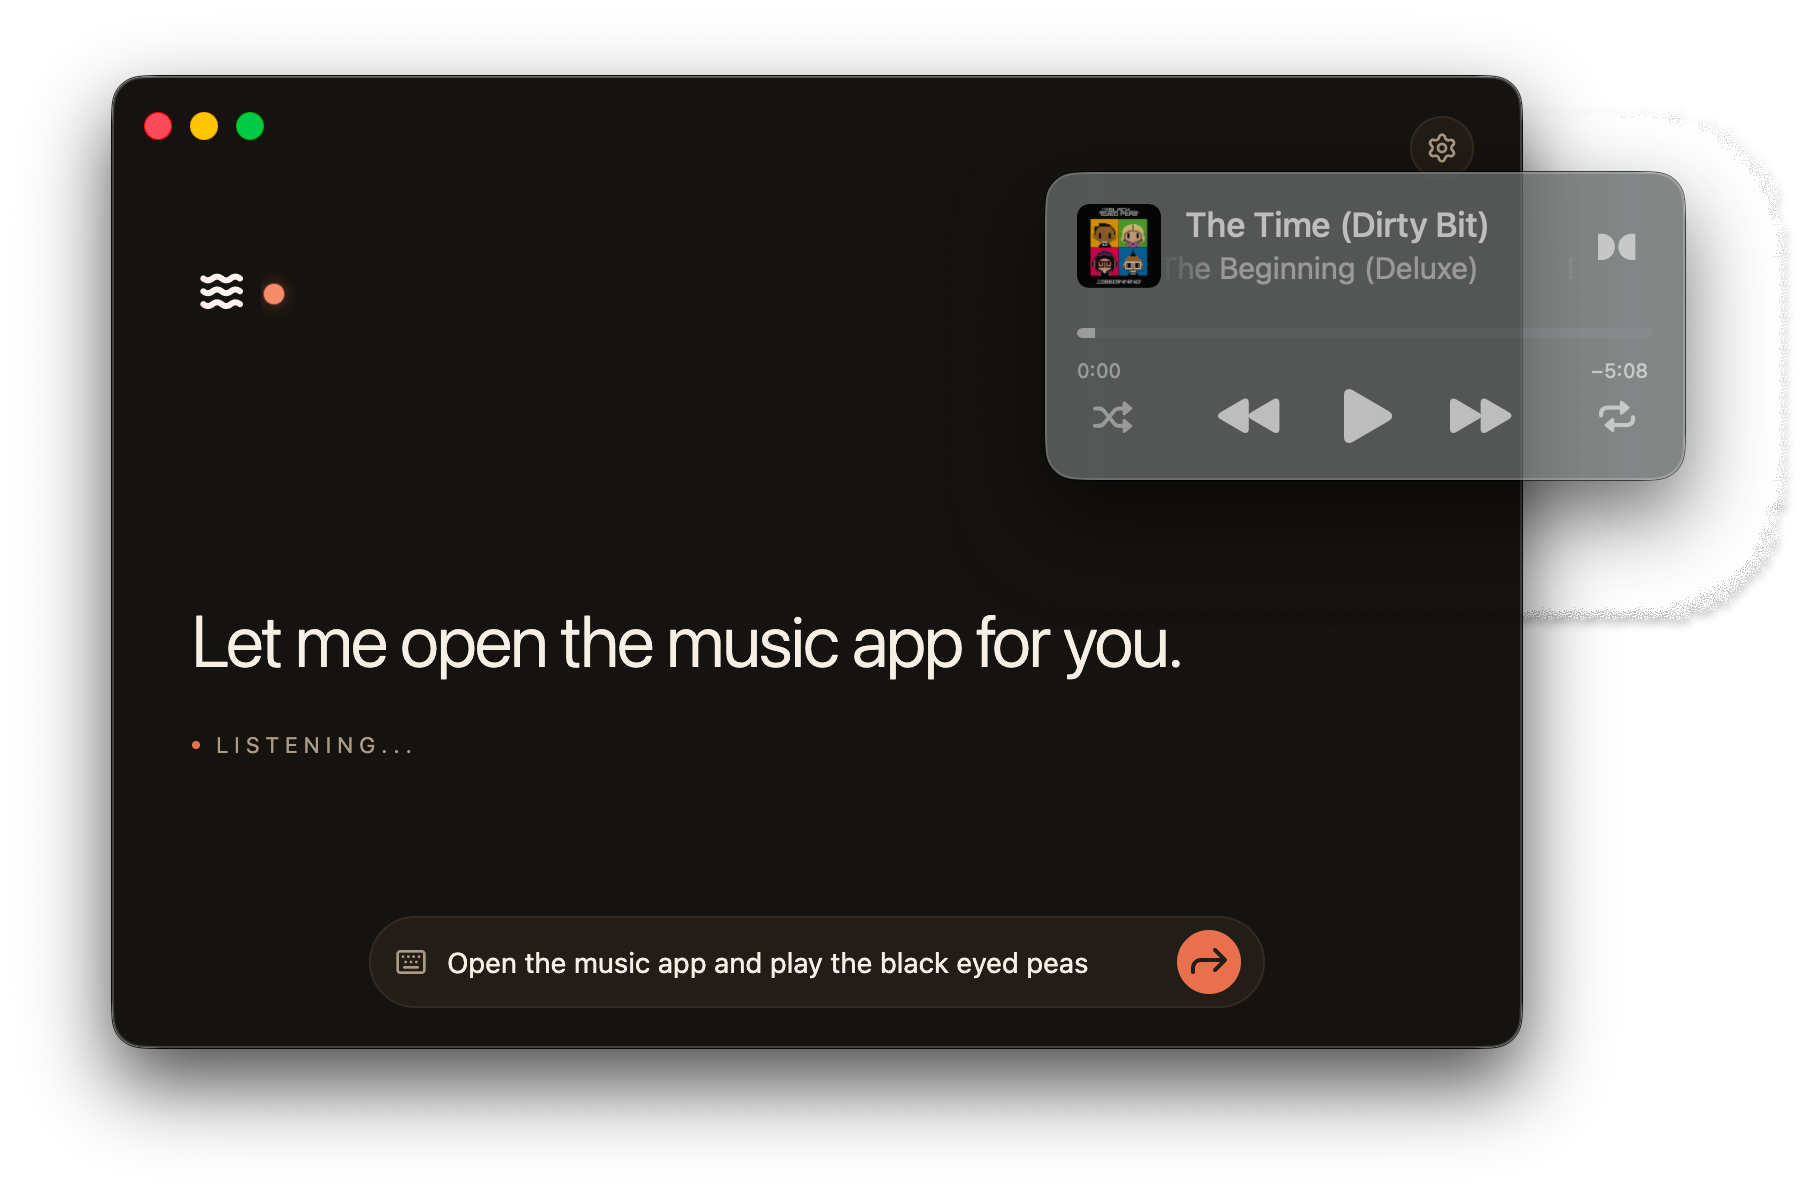
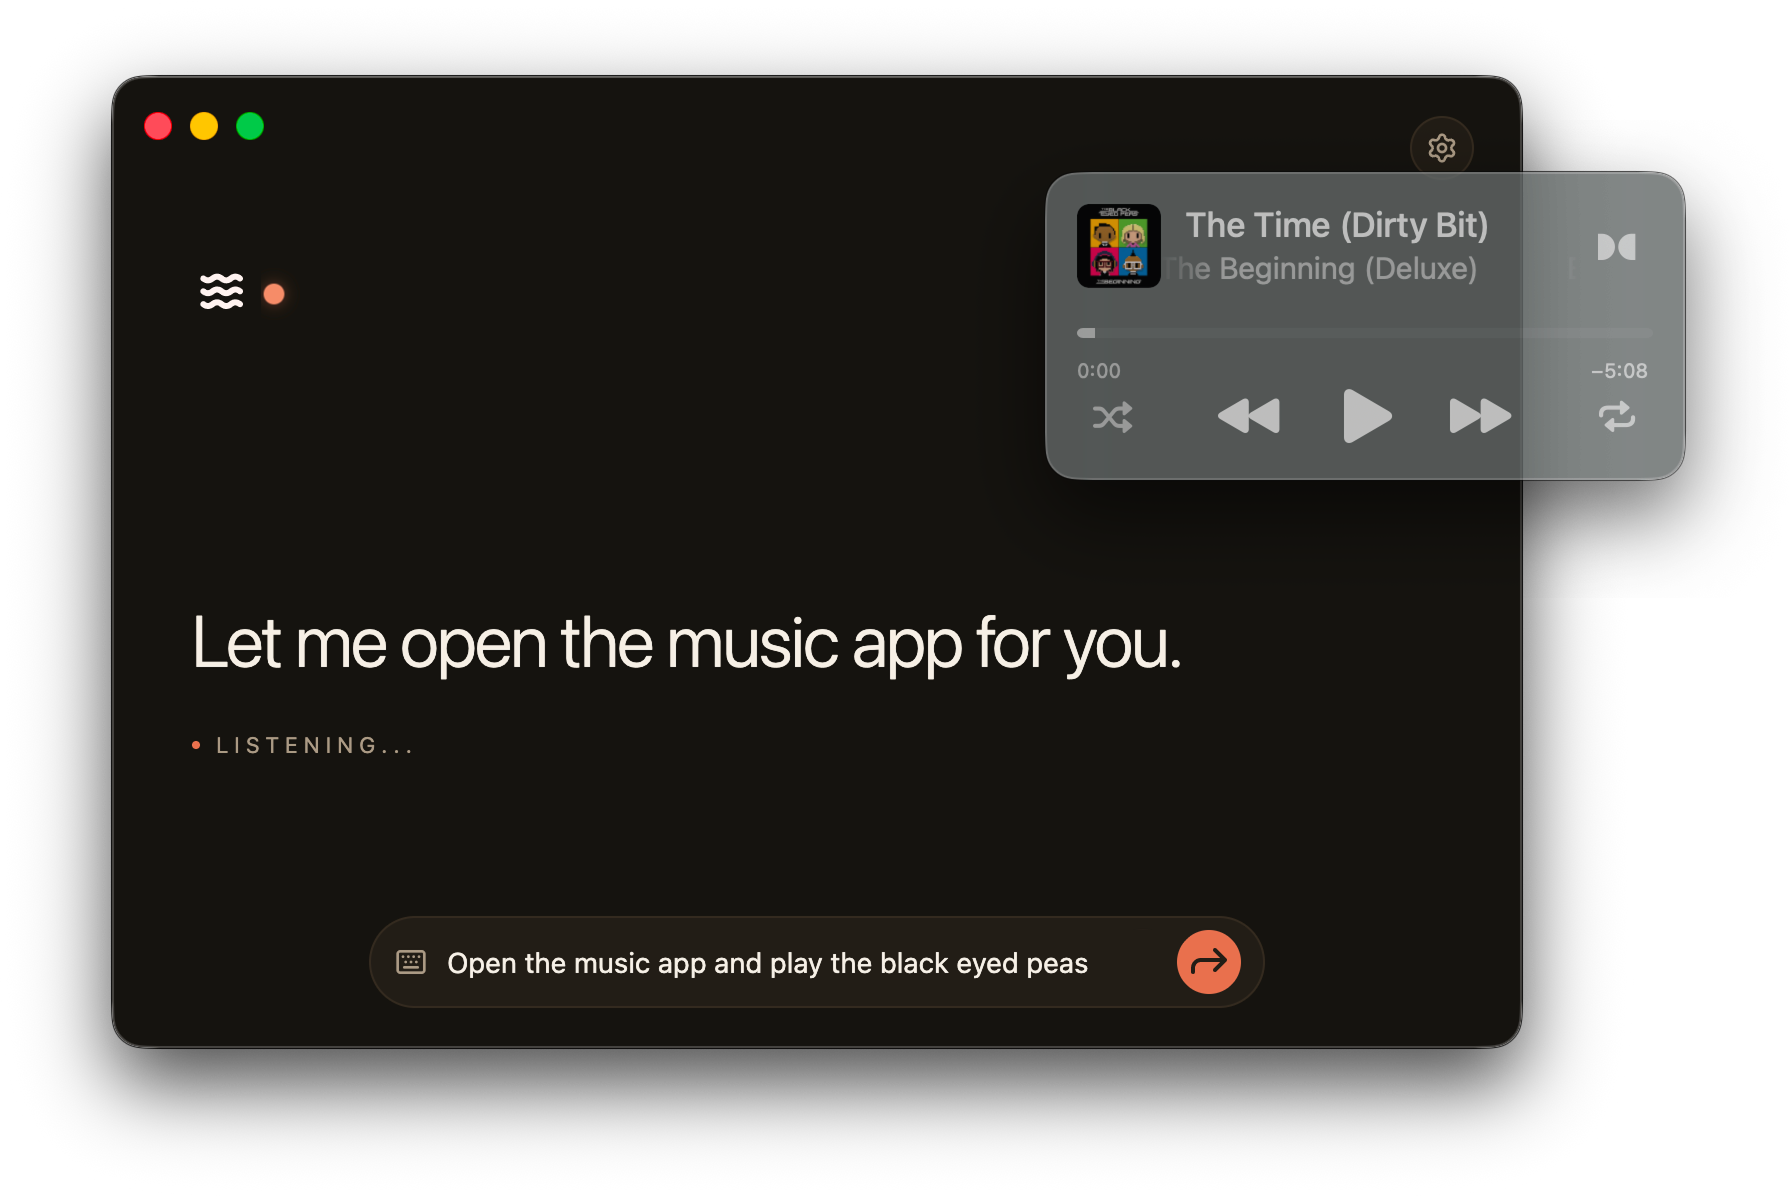
improved notch design

diff --git a/src/renderer/src/components/compact-bar.tsx b/src/renderer/src/components/compact-bar.tsx
@@ -1,16 +1,23 @@
+import { useEffect, useRef, useState } from "react";
 import { Maximize2, Mic, MicOff, Settings } from "lucide-react";
 import { StatusDot } from "@/components/status-bar";
-import { TextComposer } from "@/components/themes/text-composer";
 import { Button } from "@/components/ui/button";
 import { STATUS_LABELS, type DexStatus } from "@/lib/dex/state";
+import { cn } from "@/lib/utils";
 
 // The notch bar's presentation. It fills its transparent host window (the notch
 // window — see createNotchWindow), drawing a flat top edge flush to the screen
-// and rounded bottom so it reads as hanging from the top "notch". Purely
-// presentational: state + callbacks are wired by NotchApp from the session relay.
+// and rounded bottom so it reads as hanging from the top "notch".
+//
+// At rest it shows only the status + a standby (mic) toggle. Hovering it (or
+// focusing the type field, or the summon hotkey) "expands" it: the host window
+// grows downward (setNotchExpanded) to reveal the expand + settings buttons and
+// a minimalist type field that slides up from the bottom. State + callbacks are
+// wired by NotchApp from the session relay.
 export function CompactBar({
   status,
   caption,
+  agentName,
   isMuted,
   onSubmitText,
   onToggleMute,
@@ -19,65 +26,187 @@ export function CompactBar({
 }: {
   status: DexStatus;
   caption: string;
+  agentName: string;
   isMuted: boolean;
   onSubmitText: (text: string) => void;
   onToggleMute: () => void;
   onExpand: () => void;
   onOpenSettings: () => void;
 }) {
+  const [hovered, setHovered] = useState(false);
+  const [typing, setTyping] = useState(false);
+  const [value, setValue] = useState("");
+  const inputRef = useRef<HTMLInputElement>(null);
+
+  // Stay expanded while hovered OR while the type field has focus. Expand
+  // immediately; collapse half a second after both drop so a quick blur or
+  // pointer drift doesn't snap the bar shut.
+  const rawExpanded = hovered || typing;
+  const [expanded, setExpanded] = useState(false);
+
+  useEffect(() => {
+    if (rawExpanded) {
+      setExpanded(true);
+      return;
+    }
+    const timer = setTimeout(() => setExpanded(false), 500);
+    return () => clearTimeout(timer);
+  }, [rawExpanded]);
+
+  // Drive the host window's height to match the expanded state.
+  useEffect(() => {
+    window.opendex.setNotchExpanded(expanded);
+  }, [expanded]);
+
+  // The summon hotkey (⌥Space) focuses this window — reveal + focus the field so
+  // the user can type immediately, Spotlight-style.
+  useEffect(() => {
+    const reveal = () => {
+      setTyping(true);
+      inputRef.current?.focus();
+    };
+    window.addEventListener("opendex:summon", reveal);
+    return () => window.removeEventListener("opendex:summon", reveal);
+  }, []);
+
+  // Collapse when the notch loses focus (e.g. it's hidden on expand-to-full or a
+  // summon toggle) so its expanded state never goes stale against the window
+  // height, which main resets to collapsed whenever it re-shows the notch.
+  useEffect(() => {
+    const collapse = () => {
+      setHovered(false);
+      setTyping(false);
+    };
+    window.addEventListener("blur", collapse);
+    return () => window.removeEventListener("blur", collapse);
+  }, []);
+
+  const submit = () => {
+    const text = value.trim();
+    if (!text) return;
+    onSubmitText(text);
+    setValue(""); // keep focus for quick follow-ups
+  };
+
+  const canInteract = status !== "unsupported";
+
   return (
-    <div className="titlebar-drag flex h-screen w-screen items-center rounded-b-2xl bg-black pl-3.5 pr-2">
-      {/* Left + right groups each take an equal share (flex-1), with a fixed
-          empty gap between them. Because the notch window is screen-centered, an
-          equally-balanced gap lands directly under the physical laptop notch —
-          so neither the caption nor the controls ever sit behind it. */}
-      <div className="flex min-w-0 flex-1 items-center gap-2">
-        <StatusDot status={status} />
-        <div className="min-w-0 flex-1 truncate text-[13px] text-foreground/80">
-          {caption || (
-            <span className="text-muted-foreground">{STATUS_LABELS[status]}</span>
+    <div
+      onMouseEnter={() => setHovered(true)}
+      onMouseLeave={() => setHovered(false)}
+      className="flex h-screen w-screen flex-col overflow-hidden rounded-b-2xl bg-black"
+    >
+      {/* Top bar. Left + right groups each take an equal share (flex-1) with a
+          fixed empty gap between them; since the notch window is screen-centered,
+          that gap lands under the physical laptop notch so nothing hides behind
+          it. */}
+      <div className="flex h-11 shrink-0 items-center pl-3.5 pr-2">
+        <div className="flex min-w-0 flex-1 items-center gap-2">
+          <StatusDot status={status} />
+          <div className="min-w-0 flex-1 truncate text-[13px] text-foreground/80">
+            {caption || (
+              <span className="text-muted-foreground">{STATUS_LABELS[status]}</span>
+            )}
+          </div>
+        </div>
+
+        {/* Reserved center gap sized to roughly the physical notch width. */}
+        <div className="w-[200px] shrink-0" aria-hidden />
+
+        {/* Mic stays pinned to the right edge; the expand + settings buttons are
+            revealed to its LEFT so they appear away from the cursor after a mic
+            click (no accidental hit on a button that wasn't there a moment ago). */}
+        <div className="flex flex-1 items-center justify-end gap-1">
+          {expanded && (
+            <>
+              <Button
+                variant="ghost"
+                size="icon-sm"
+                onClick={onExpand}
+                autoFocus={false}
+                aria-label="Expand to full window"
+                title="Expand to full window"
+                className="rounded-full text-muted-foreground hover:text-foreground cursor-pointer"
+              >
+                <Maximize2 />
+              </Button>
+              <Button
+                variant="ghost"
+                size="icon-sm"
+                autoFocus={false}
+                onClick={onOpenSettings}
+                aria-label="Settings"
+                className="rounded-full text-muted-foreground hover:text-foreground cursor-pointer"
+              >
+                <Settings />
+              </Button>
+            </>
+          )}
+          {canInteract && (
+            <Button
+              variant="ghost"
+              size="icon-sm"
+              onClick={onToggleMute}
+              aria-pressed={isMuted}
+              autoFocus={false}
+              aria-label={isMuted ? "Resume listening" : "Stand by"}
+              title={isMuted ? "On standby — click to resume" : "Listening — click to stand by"}
+              className="rounded-full text-muted-foreground hover:text-foreground cursor-pointer"
+            >
+              {isMuted ? <MicOff /> : <Mic />}
+            </Button>
           )}
         </div>
       </div>
 
-      {/* Reserved center gap sized to roughly the physical notch width. */}
-      <div className="w-[200px] shrink-0" aria-hidden />
-
-      <div className="titlebar-no-drag flex flex-1 items-center justify-end gap-1">
-        <TextComposer onSubmit={onSubmitText} className="max-w-[200px]" />
-        {status !== "unsupported" && (
-          <Button
-            variant="ghost"
-            size="icon-sm"
-            onClick={onToggleMute}
-            aria-pressed={isMuted}
-            aria-label={isMuted ? "Resume listening" : "Stand by"}
-            title={isMuted ? "On standby — click to resume" : "Listening — click to stand by"}
-            className="rounded-full text-muted-foreground hover:text-foreground"
+      {/* Type field — slides up from the bottom when expanded. Minimalist: a
+          blinking caret + "Type to {name}" prompt while empty, native text once
+          you start typing. */}
+      {canInteract && (
+        <form
+          onSubmit={(e) => {
+            e.preventDefault();
+            submit();
+          }}
+          className={cn(
+            "flex-1 px-3.5 transition-opacity duration-200 ease-out",
+            expanded ? "opacity-100" : "pointer-events-none opacity-0",
+          )}
+        >
+          <div
+            onMouseDown={() => inputRef.current?.focus()}
+            className="relative flex h-9 w-full items-center rounded-xl bg-white/[0.06] px-3"
           >
-            {isMuted ? <MicOff /> : <Mic />}
-          </Button>
-        )}
-        <Button
-          variant="ghost"
-          size="icon-sm"
-          onClick={onExpand}
-          aria-label="Expand to full window"
-          title="Expand to full window"
-          className="rounded-full text-muted-foreground hover:text-foreground"
-        >
-          <Maximize2 />
-        </Button>
-        <Button
-          variant="ghost"
-          size="icon-sm"
-          onClick={onOpenSettings}
-          aria-label="Settings"
-          className="rounded-full text-muted-foreground hover:text-foreground"
-        >
-          <Settings />
-        </Button>
-      </div>
+            <input
+              ref={inputRef}
+              value={value}
+              onChange={(e) => setValue(e.target.value)}
+              onFocus={() => setTyping(true)}
+              onBlur={() => setTyping(false)}
+              onKeyDown={(e) => {
+                if (e.key === "Escape") {
+                  setValue("");
+                  inputRef.current?.blur();
+                }
+              }}
+              // Hide the native caret while empty so the synthetic blinking one
+              // below is the only cursor (and it shows even when this window
+              // isn't focused, signalling "ready to type").
+              className={cn(
+                "h-full w-full bg-transparent text-[13px] text-foreground/90 outline-none",
+                value === "" && "caret-transparent",
+              )}
+              aria-label={`Type to ${agentName || "your assistant"}`}
+            />
+            {value === "" && (
+              <div className="pointer-events-none absolute inset-y-0 left-4 flex items-center gap-1.5 text-[13px] text-muted-foreground">
+                <span className="inline-block h-[1.05em] w-[2px] animate-caret-blink rounded-[1px] bg-foreground/70" />
+                <span>Type to {agentName || "your assistant"}</span>
+              </div>
+            )}
+          </div>
+        </form>
+      )}
     </div>
   );
 }

diff --git a/src/main/index.ts b/src/main/index.ts
@@ -74,7 +74,11 @@ let windowMode: WindowMode = "full";
 // so a freshly-created window paints immediately instead of waiting for a change.
 let latestSessionState: SessionState | null = null;
 
-const NOTCH_SIZE = { width: 680, height: 44 };
+const NOTCH_SIZE = { width: 480, height: 44 };
+// Height when the notch is hovered — enough for the revealed controls plus the
+// type field that slides up from the bottom. The window grows downward (y stays
+// pinned at the top edge), so the cursor stays over the bar and hover holds.
+const NOTCH_EXPANDED_HEIGHT = 96;
 
 function createWindow() {
   const win = new BrowserWindow({
@@ -311,6 +315,20 @@ function placeNotch(win: BrowserWindow) {
     width: NOTCH_SIZE.width,
     height: NOTCH_SIZE.height,
   });
+}
+
+// Grow/shrink the notch on hover, pinned to the top edge so the cursor stays
+// over the bar (otherwise the window would slide out from under the pointer and
+// hover would flicker). Only meaningful while the notch is the active surface.
+function setNotchExpanded(expanded: boolean) {
+  if (windowMode !== "notch") return;
+  if (!notchWindow || notchWindow.isDestroyed()) return;
+  const b = notchWindow.getBounds();
+  const height = expanded ? NOTCH_EXPANDED_HEIGHT : NOTCH_SIZE.height;
+  if (b.height === height) return;
+  // animate: true → Cocoa tweens the resize on macOS (ignored elsewhere) so the
+  // type field eases into view instead of snapping.
+  notchWindow.setBounds({ x: b.x, y: b.y, width: b.width, height }, true);
 }
 
 // ── Layout: full (main window) ↔ notch (notch window) ─────────────────────────
@@ -592,6 +610,11 @@ function registerIpc() {
   // Window mode (full ↔ notch), requested from the renderer.
   ipcMain.on(IPC.windowSetMode, (_event, mode: WindowMode) => {
     applyWindowMode(mode);
+  });
+
+  // Notch hover → grow/shrink the notch window.
+  ipcMain.on(IPC.notchSetExpanded, (_event, expanded: boolean) => {
+    setNotchExpanded(!!expanded);
   });
 
   // The notch (a view-only window) relays session actions: `expand` switches

diff --git a/src/renderer/src/NotchApp.tsx b/src/renderer/src/NotchApp.tsx
@@ -9,8 +9,18 @@ import type { SessionState } from "../../main/ipc/channels";
 // type, mute, expand — back to the main window's session via `view:command`.
 export function NotchApp() {
   const [state, setState] = useState<SessionState | null>(null);
+  const [agentName, setAgentName] = useState("");
 
   useEffect(() => window.opendex.onSessionState(setState), []);
+
+  // The notch owns no config; read the assistant name (for the type-field
+  // prompt) once and keep it live as settings change.
+  useEffect(() => {
+    window.opendex.getConfig().then((c) => setAgentName(c.config.assistant.name));
+    return window.opendex.onConfigChanged((c) =>
+      setAgentName(c.config.assistant.name),
+    );
+  }, []);
 
   // The summon hotkey focuses this window; surface + focus the type field too.
   useEffect(
@@ -35,6 +45,7 @@ export function NotchApp() {
     <CompactBar
       status={status}
       caption={caption}
+      agentName={agentName}
       isMuted={state?.muted ?? false}
       onSubmitText={(text) => window.opendex.sendViewCommand({ type: "submitText", text })}
       onToggleMute={() => window.opendex.sendViewCommand({ type: "toggleMute" })}

diff --git a/src/preload/index.ts b/src/preload/index.ts
@@ -183,6 +183,11 @@ const opendex = {
     ipcRenderer.send(IPC.windowSetMode, mode);
   },
 
+  /** Notch only: grow/shrink the notch window when it's hovered. */
+  setNotchExpanded(expanded: boolean): void {
+    ipcRenderer.send(IPC.notchSetExpanded, expanded);
+  },
+
   /** Subscribe to window-mode changes applied by main. Returns an unsubscribe fn. */
   onWindowMode(handler: (mode: WindowMode) => void): () => void {
     const listener = (_e: IpcRendererEvent, mode: WindowMode) => handler(mode);

diff --git a/src/main/ipc/channels.ts b/src/main/ipc/channels.ts
@@ -48,6 +48,9 @@ export const IPC = {
   remoteCommand: "remote:command",
   // main → renderer event: the summon hotkey brought the window forward
   windowSummoned: "window:summoned",
+  // notch renderer → main: grow/shrink the notch window on hover (so the
+  // hover-revealed controls + type field have room to appear).
+  notchSetExpanded: "notch:set-expanded",
   // Overlay HUD: renderer → main, toggle click-through so the Stop button is
   // clickable while the rest of the overlay stays pass-through.
   overlaySetInteractive: "overlay:set-interactive",

diff --git a/src/renderer/src/components/tool-activity-banner.tsx b/src/renderer/src/components/tool-activity-banner.tsx
@@ -19,7 +19,7 @@ export function StopControl({ onStop }: { onStop: () => void }) {
         type="button"
         onClick={onStop}
         title="Stop the assistant"
-        className="titlebar-no-drag pointer-events-auto flex items-center gap-2 rounded-full border border-destructive/40 bg-destructive/15 px-4 py-1.5 text-sm font-medium text-destructive-foreground shadow-lg backdrop-blur transition hover:bg-destructive/25"
+        className="titlebar-no-drag pointer-events-auto flex items-center gap-2 rounded-full border border-destructive/40 bg-destructive/30 px-4 py-1.5 text-sm font-medium text-destructive-foreground shadow-lg backdrop-blur transition hover:bg-destructive/25"
       >
         <span className="h-2.5 w-2.5 rounded-[2px] bg-destructive" aria-hidden />
         Stop